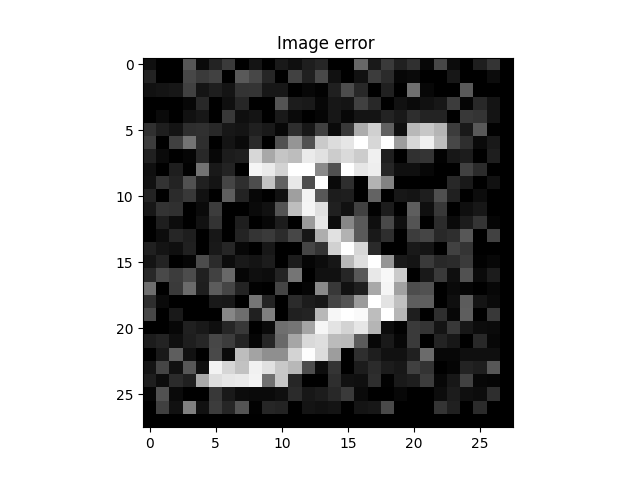
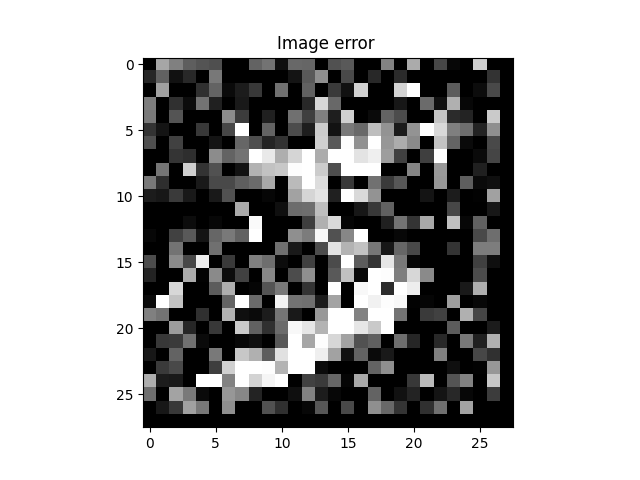
imagine risultato

Changed region(s): [[0.2188, 0.125, 0.7812, 0.875]]

diff --git a/algoritmo genetico puliito.py b/algoritmo genetico puliito.py
@@ -12,10 +12,9 @@ model=tf.keras.models.load_model(
 def mutate(imagine):
     coordinatex = random.randrange(0, 27)
     coordinatey = random.randrange(0, 27)
-    variation = random.randrange(-10, 10)
+    variation = random.randrange(-50, 50)
     variation = variation / 100
     imagine[coordinatex, coordinatey]=imagine[coordinatex, coordinatey]+variation
-    print(imagine[coordinatex, coordinatey])
     if imagine[coordinatex, coordinatey]<0:
         imagine[coordinatex, coordinatey]=0
     elif imagine[coordinatex, coordinatey]>1:
@@ -50,7 +49,6 @@ def algoritmo():
         father=ancestor
         son=mutate(father)
         while n!=1:
-            print("qui")
             son = mutate(father)
             father=compare(father, son)
             if fitnessFonction(father)<0 or fitnessFonction(son)<0:
